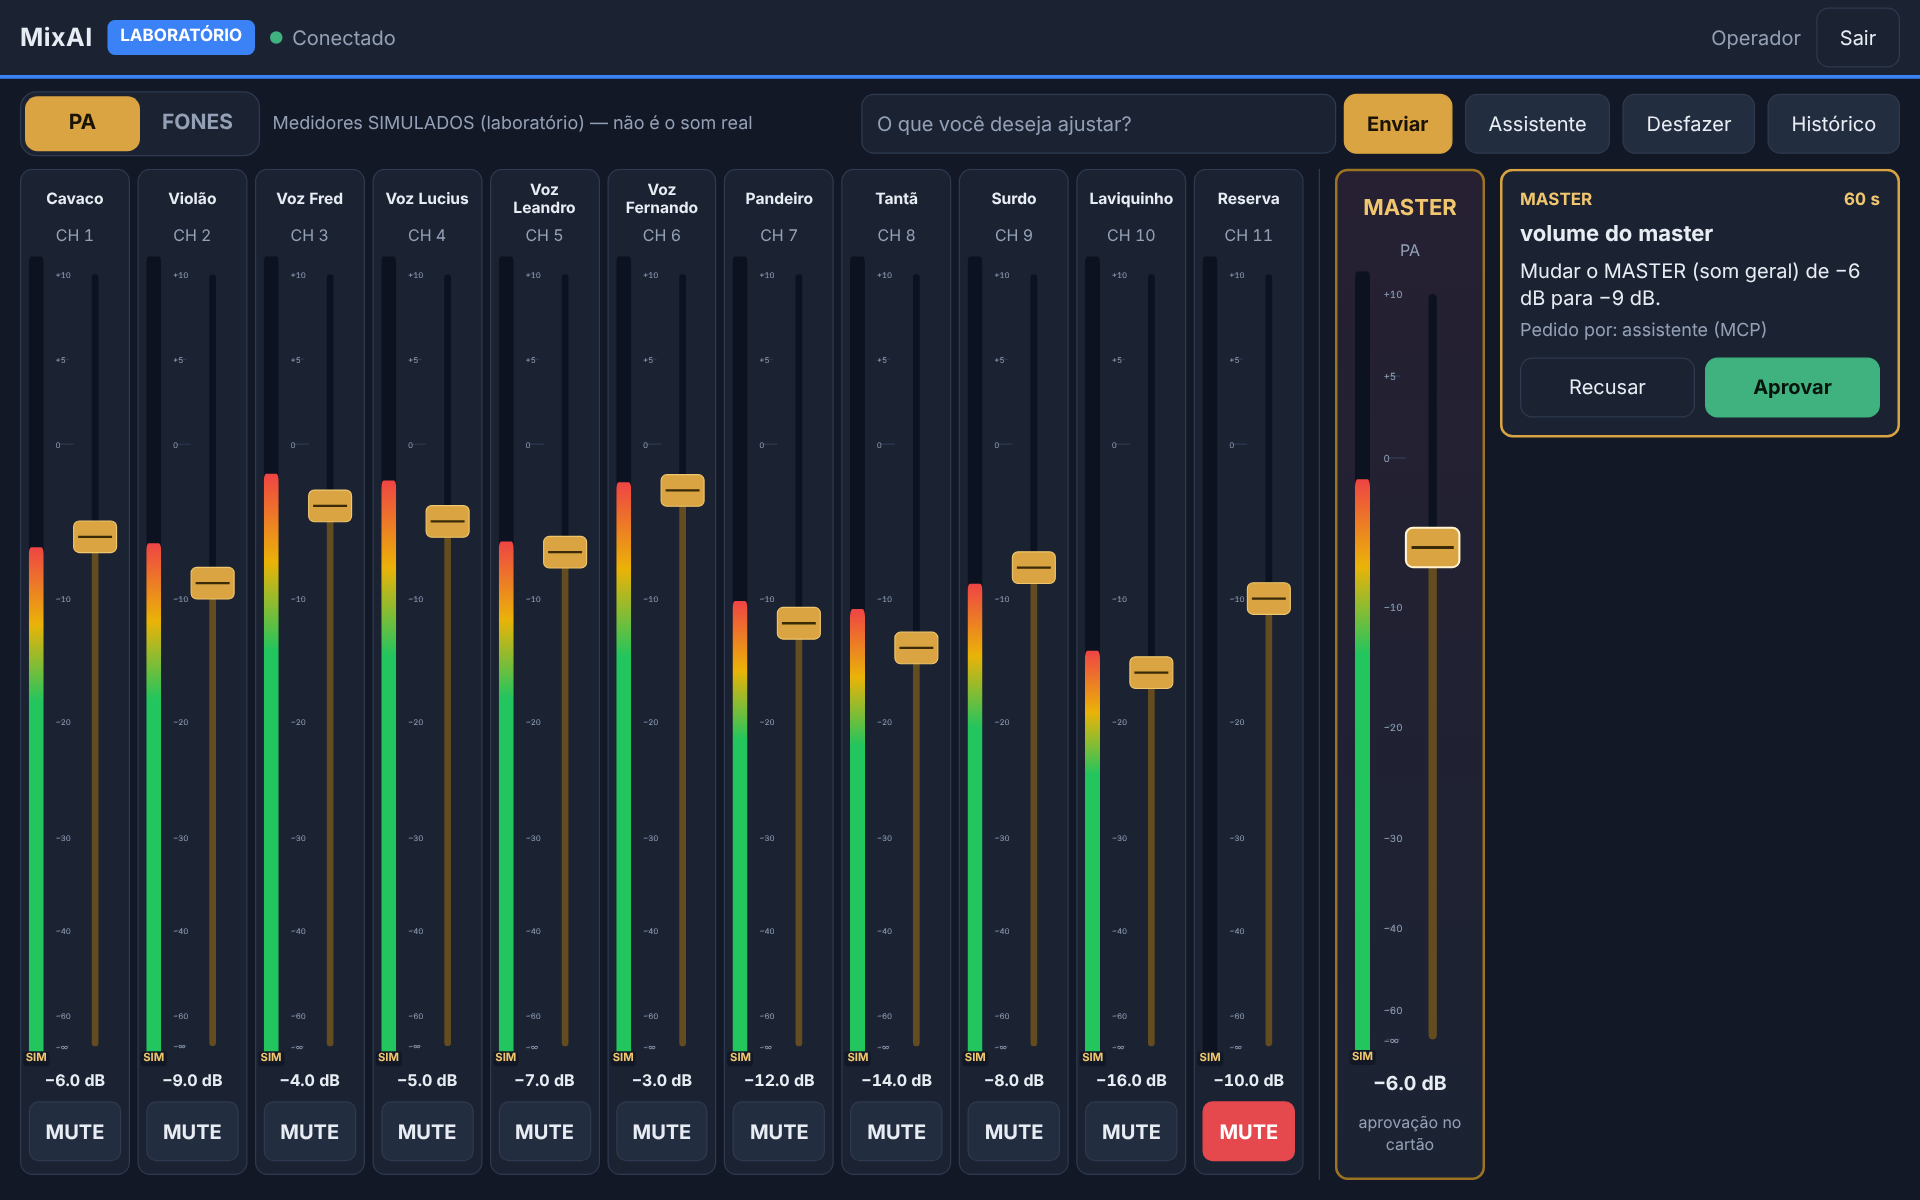
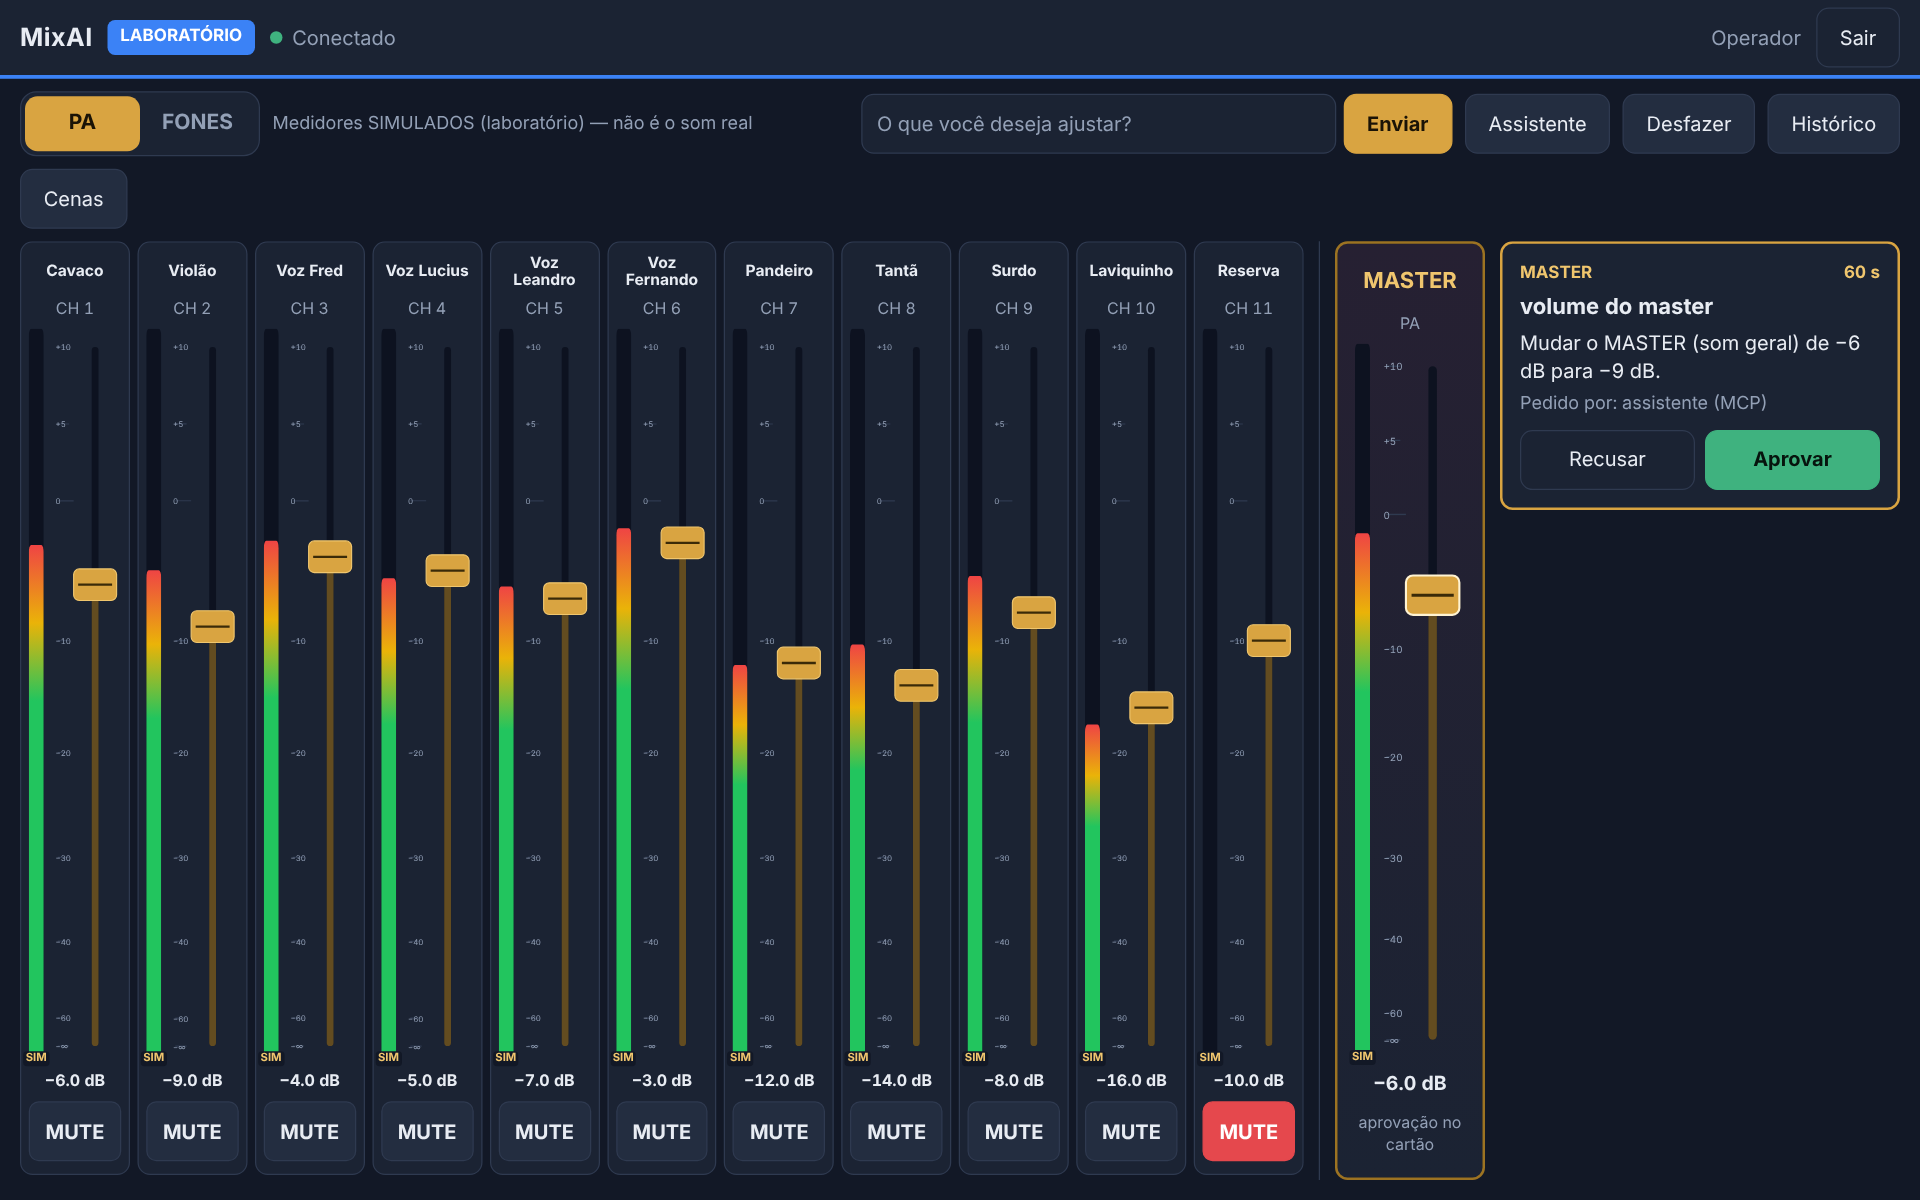
docs: E5 — cenas do MixAI (formato, fluxo seguro, permissões, testes, capturas)
- docs/lab/10-E5-CENAS.md: cena do MixAI × snapshot da Soundcraft, formato
  v2, importação, comparação, carregamento em 7 passos, desfazer, falhas,
  permissões, nunca na mesa real, interface, testes e riscos.
- Capturas e5-yoga-cenas-*.png (gerador npm run screenshots); capturas da
  E3/E4 regeneradas (botão Cenas na barra).
- README, ESTADO-ATUAL e plano (E5 implementada).

Claude-Session: https://claude.ai/code/session_01ALNfJPYNgshdvedMN7ticP

diff --git a/test/e2e/screenshots.test.ts b/test/e2e/screenshots.test.ts
@@ -103,3 +103,45 @@ it('capturas do assistente (Yoga e celular)', async () => {
     await l.server.close();
   }
 }, 90_000);
+
+it('capturas das cenas (E5, Yoga)', async () => {
+  const out = join(PROJECT_ROOT, 'docs', 'lab', 'img');
+  const l = await startLab({ channels: bandChannels() });
+  const browser = await launch();
+  try {
+    const op = await l.login(OPERATOR_PIN);
+    const set = (command: Record<string, unknown>) => l.command(op, command);
+    await set({ type: 'set_level', channel: 'surdo', db: -12 });
+    await set({ type: 'set_level', channel: 'cavaco', db: -12 });
+    await set({ type: 'set_level', channel: 'voz fernando', aux: 'fones', db: -17 });
+    await set({ type: 'set_mute', channels: ['pandeiro'], muted: true });
+    await set({ type: 'scene_save', name: 'Roda de sábado', description: 'Surdo e voz do Fernando mais à frente; pandeiro fora do PA.' });
+    await set({ type: 'scene_save', name: 'Ensaio acústico', description: 'Base para ensaio em casa.' });
+    await set({ type: 'set_level', channel: 'surdo', db: -15 });
+    await set({ type: 'set_level', channel: 'cavaco', db: -10 });
+    await set({ type: 'set_level', channel: 'voz fernando', aux: 'fones', db: -20 });
+    await set({ type: 'set_mute', channels: ['pandeiro'], muted: false });
+
+    const yoga = await enter(browser, l.base, OPERATOR_PIN, YOGA);
+    const page = yoga.page;
+    await page.getByRole('button', { name: 'Cenas' }).click();
+    await page.locator('.scene-item', { hasText: 'Roda de sábado' }).click();
+    await page.locator('.scene-view tbody tr').first().waitFor();
+    await page.waitForTimeout(300);
+    await page.screenshot({ path: join(out, 'e5-yoga-cenas-lista.png') });
+    await page.getByRole('button', { name: 'Comparar' }).click();
+    await page.getByTestId('scene-compare').waitFor();
+    await page.waitForTimeout(300);
+    await page.screenshot({ path: join(out, 'e5-yoga-cenas-comparacao.png') });
+    await page.getByRole('button', { name: 'Carregar…' }).click();
+    await page.waitForTimeout(300);
+    await page.screenshot({ path: join(out, 'e5-yoga-cenas-confirmar.png') });
+    await page.getByRole('button', { name: 'Pedir carregamento' }).click();
+    await page.getByTestId('scene-load-card').waitFor();
+    await page.waitForTimeout(300);
+    await page.screenshot({ path: join(out, 'e5-yoga-cenas-aprovacao.png') });
+  } finally {
+    await browser.close();
+    await l.server.close();
+  }
+}, 60_000);

diff --git a/docs/lab/10-E5-CENAS.md b/docs/lab/10-E5-CENAS.md
@@ -1,0 +1,216 @@
+# E5 — Cenas do MixAI no laboratório
+
+Branch `e5-lab-scenes`. Referência: `03-IMPLEMENTATION-PLAN.md`, seção E5. **Tudo só no LABORATÓRIO**: nenhuma cena é enviada à Ui16 real.
+
+> **Regra fundamental:** nenhuma cena altera a mesa sem confirmação humana.
+
+## O que é uma cena do MixAI
+
+| | Cena do MixAI | Snapshot da Soundcraft |
+| --- | --- | --- |
+| Onde fica | arquivo no computador: `data/scenes/<id>.json` (fora do Git) | na própria mesa Ui16 |
+| Quem cria | o operador, pela área **Cenas** | a interface da Soundcraft |
+| Carregar | só no LABORATÓRIO, com comparação e aprovação | `load_snapshot` (E2), sempre com aprovação |
+| Desfazer | sim, uma operação | não (o desfazer é zerado) |
+
+A tela de Cenas mostra a diferença no topo: "Arquivos do MixAI guardados neste computador. **Não são os snapshots da Soundcraft**".
+
+## Funcionalidades
+
+- Criar cena a partir do estado atual do laboratório, com nome e descrição do usuário.
+- Listar, duplicar (`"Nome (cópia)"`), renomear e trocar a descrição. Os nomes não se repetem (sem diferenciar maiúsculas).
+- Excluir com confirmação. O servidor confere o nome atual da cena, e o arquivo é **movido** para `data/scenes/excluidas/`, de onde dá para recuperar à mão.
+- Ver os parâmetros salvos, por destino.
+- Comparar com o estado atual e carregar no LAB, depois da aprovação.
+- Exportar (download `mixai-cena-<nome>.json`) e importar (seletor de arquivo, até 256 KB).
+
+`config/channels.yaml` e os nomes dos canais não são alterados.
+
+## Formato do arquivo (`schemaVersion: 2`)
+
+```json
+{
+  "schemaVersion": 2,
+  "kind": "mixai-scene",
+  "id": "cena-3f9a1c2b7d4e",
+  "name": "Roda de sábado",
+  "description": "Surdo e voz do Fernando mais à frente",
+  "createdAt": "2026-11-05T20:43:00.000Z",
+  "updatedAt": "2026-11-05T20:43:00.000Z",
+  "deviceProfile": { "model": "ui16", "inputs": 12, "aux": 6 },
+  "validationStatus": "UNVERIFIED",
+  "source": { "mode": "lab", "app": "MixAI" },
+  "params": {
+    "ch.9.main.level": { "value": -12, "status": "unknown" },
+    "ch.8.main.level": { "value": "-inf", "status": "unknown" },
+    "ch.7.main.mute": { "value": true, "status": "unknown" },
+    "ch.1.eq.b1.gain": { "value": 0, "status": "incompatible" }
+  }
+}
+```
+
+- **Identificadores estáveis:** as chaves são os mesmos `ParamKey` do resto do projeto (`ch.N.main.level`, `ch.N.aux.A.mute`, `master.level`, `ch.N.eq.bK.gain`…).
+- **−∞:** é gravado como `"-inf"`, porque JSON não tem Infinity. Volta como `-Infinity` sem perda (testado na ida e volta entre dois computadores).
+- **Validação com Zod:**
+  - o esquema é estrito: campo desconhecido é recusado;
+  - cada valor é conferido na faixa do registro de parâmetros;
+  - nome com até 60 caracteres e descrição com até 500;
+  - no máximo 2000 parâmetros.
+- **`validationStatus`:** `UNVERIFIED` (só laboratório) ou `VALIDATED_IN_REHEARSAL` (ouvida num ensaio; reservado para depois).
+- **Status por parâmetro** (preparação para a comparação com a Ui16 real, D9):
+
+| Status | Quando |
+| --- | --- |
+| `compatible` | parâmetro validado na mesa física (`hardware_verified`; nenhum ainda) |
+| `unknown` | existe na biblioteca da Soundcraft, ainda não validado na mesa física (volume e mute hoje) |
+| `incompatible` | só existe no laboratório ou não é enviado à mesa real (EQ, HPF, bypass hoje) |
+
+## Importação
+
+- **Recusada com mensagem:**
+  - JSON inválido;
+  - arquivo que não é cena do MixAI (inclusive um snapshot da Soundcraft);
+  - campo desconhecido;
+  - valor fora da faixa ou do tipo errado;
+  - identificador de parâmetro inválido;
+  - **versão de formato diferente de 2** (mais nova: "atualize o MixAI");
+  - **outro modelo de mesa** (`DEVICE_MISMATCH`, por exemplo uma cena da Ui24).
+- **Aceita com aviso:** mesmo modelo com outro número de entradas ou AUX. Os parâmetros que não existem aqui ficam guardados e nunca são aplicados.
+- **Sempre cria uma cena nova:** id novo, e um nome livre se já houver um igual (`"Show (importada)"`). **Nunca sobrescreve e nunca aplica nada.**
+
+## Comparação
+
+Mostra **só o que difere** do estado atual, com o total de alterações e os filtros **Todos / PA / FONES / MASTER / OUTROS**:
+
+| Canal | Destino | Atual | Cena | Diferença |
+| --- | --- | --- | --- | --- |
+| Surdo | PA | −15.0 dB | −12.0 dB | **+3 dB** |
+| Cavaco | PA | −10.0 dB | −12.0 dB | **−2 dB** |
+| Voz Fernando | FONES | −20.0 dB | −17.0 dB | **+3 dB** |
+| Pandeiro | PA | aberto | MUTE | vai MUTAR |
+| Voz Fred | EQ | 0 | −4 | não aplicável: EQ/HPF, guardado na cena |
+
+- **Volume:** diferença em dB.
+- **Mute:** "vai MUTAR" ou "vai ABRIR".
+- **Ainda não aplicável:**
+  - EQ, HPF e bypass (sem caminho de escrita novo);
+  - canais e AUX fora do `channels.yaml`;
+  - valor atual desconhecido.
+- **Teto de segurança:** um volume acima do teto (`safety.maxChannelLevelDB` etc.) aparece como "→ 0.0 dB (teto)", e é esse o valor aplicado.
+
+Comparar não altera nada e guarda uma **prévia** presa às revisões dos parâmetros da cena (vale 5 min, uma vez).
+
+## Carregamento seguro
+
+1. O operador escolhe a cena.
+2. **Comparar:** o servidor calcula as diferenças e guarda a prévia, com as revisões dos parâmetros.
+3. A tela mostra a prévia, e **Carregar…** abre o resumo ("N parâmetros mudam: PA x, FONES y, MASTER z").
+4. **Pedir carregamento:**
+   - o servidor confere a prévia **dentro da fila única**;
+   - se qualquer parâmetro mudou, responde `STATE_CHANGED` e a tela pede nova comparação.
+5. O servidor cria a **pendência de aprovação da E2**. É o mesmo mecanismo dos cartões de master e snapshot; não existe um segundo sistema. Ela fica vinculada:
+   - às **revisões de todos os parâmetros aplicáveis da cena**;
+   - ao **conteúdo da cena** (hash dos valores e do equipamento).
+6. O operador toca em **Aprovar** no cartão, dentro do painel de Cenas ou na coluna lateral da Mesa.
+7. Só então o LAB aplica, pela **fila única**, com as travas existentes.
+
+**Garantias:**
+- **A mesa mudou entre o pedido e a aprovação:** a pendência é **invalidada na hora**. O cartão some com "a pendência foi invalidada", e a mudança posterior **não é sobrescrita**. Isso também vale agora para os outros cartões (master, passo grande), porque a pendência confere as revisões a cada segundo.
+- **A cena foi excluída antes da aprovação:** nada é aplicado (`NOT_FOUND`).
+- **Ordem segura de aplicação:** primeiro o que diminui o som (mutar, abaixar), depois o que aumenta (subir, abrir). Evita um pico no meio da troca.
+- **Sem saltos sem aviso:** todo carregamento tem prévia e aprovação, qualquer que seja o tamanho da mudança.
+- **Uma prévia, um pedido.** A prévia vale 5 minutos e só para o operador que comparou.
+
+## Desfazer e falhas
+
+- **Desfazer:**
+  - o carregamento entra como **um item** no histórico (`scene_load`, com `by: operador · sessão …; aprovado por operador · sessão …`) e **um item** na pilha de desfazer;
+  - um toque em **Desfazer** volta todos os parâmetros;
+  - o desfazer respeita as revisões: o que alguém mudou depois da cena não é sobrescrito, pela política existente.
+- **Falhas:**
+  - uma falha no meio da aplicação gera `PARTIAL`, com "Operação PARCIAL", "RESULTADO INCERTO" e "NÃO enviado";
+  - **nunca** é apresentada como sucesso completo;
+  - só o que foi de fato enviado entra no desfazer.
+
+## Permissões (conferidas no backend)
+
+| Ação | Operador | Músico (qualquer modo, inclusive `pa_without_master`) | Assistente (MCP e tela) |
+| --- | --- | --- | --- |
+| Criar, renomear, duplicar, excluir, ver | sim | **não** | **não** |
+| Importar e exportar | sim | não | não |
+| Comparar e pedir carregamento | sim (só LAB) | não | não |
+| Aprovar o carregamento | sim | não | não |
+
+O botão **Cenas** só aparece na tela do operador. Comandos `scene_*` forjados por WebSocket ou HTTP são recusados (`FORBIDDEN`, testado).
+
+## Nunca na mesa real
+
+- O `ScenesService` só compara, salva do estado e carrega quando o servidor **e** o adaptador da mesa estão em modo `lab`.
+- O `MixController.loadScene` confere de novo e recusa qualquer outro modo (`MODE_MISMATCH`), mesmo chamado direto e mesmo com uma confirmação.
+- Fora do LAB, a tela mostra "Fora do laboratório: só ver, renomear, importar e exportar".
+- EQ e HPF continuam sem caminho de escrita física.
+
+## Interface
+
+**Cenas** é um botão na barra da Mesa. Abre um painel em tela cheia, que se fecha com **Fechar** e não ocupa os faders de forma permanente:
+- lista à esquerda, com **Salvar estado atual** e **Importar**;
+- detalhes à direita, com **Comparar**, **Carregar…**, **Duplicar**, **Renomear**, **Exportar** e **Excluir**;
+- filtros por destino;
+- diálogos de confirmação.
+
+Os botões têm pelo menos 48 px de altura (toque no Yoga). Em tela estreita, a lista fica acima dos detalhes, sem rolagem horizontal. "Carregar…" desabilitado sempre mostra o motivo.
+
+![Lista e parâmetros salvos](img/e5-yoga-cenas-lista.png)
+![Comparação com o estado atual](img/e5-yoga-cenas-comparacao.png)
+![Resumo antes de pedir](img/e5-yoga-cenas-confirmar.png)
+![Cartão de aprovação (mecanismo da E2)](img/e5-yoga-cenas-aprovacao.png)
+
+## Arquivos
+
+| Arquivo | O quê |
+| --- | --- |
+| `src/core/scene.ts` | formato v2, validação, status, classificação, comparação, alvos de carregamento |
+| `src/core/scene-store.ts` | `data/scenes/`: gravação atômica, nomes, duplicar, renomear, excluir, importar, exportar |
+| `src/server/scenes.ts` | serviço do servidor: comandos, prévia, pedido, aplicação aprovada |
+| `src/core/controller.ts` | `loadScene` (fila única, aprovação, desfazer, ordem segura, só LAB) |
+| `src/core/pending.ts` | pendência invalidada na hora quando um parâmetro vinculado muda |
+| `src/server/commands.ts`, `core.ts` | comandos `scene_*`, autorização só do operador, aprovação |
+| `web/src/app/scenes/*` | tela de Cenas |
+
+## Testes
+
+| Conjunto | Total | Novos na E5 |
+| --- | --- | --- |
+| Servidor e núcleo (`npm test`) | 332 | 21 de cenas (+ 2 da E1 adaptados ao formato v2) |
+| Interface, unitários (`npm run test:web`) | 46 | 3 |
+| Integração com navegador (`npm run test:e2e`) | 33 | 6 |
+
+Cobertura dos 16 itens pedidos:
+1. Criar e salvar.
+2. Persistir depois de reiniciar.
+3. Duplicar e renomear.
+4. Exportar e importar entre **dois computadores independentes**: dois servidores com pastas de dados diferentes, arquivo levado por uma pasta "pendrive". Testado no servidor e no navegador, com download e seletor de arquivo.
+5. JSON inválido.
+6. Versão incompatível.
+7. Equipamento incompatível.
+8. Diferenças.
+9. Importar sem aplicar.
+10. Carregar só depois da aprovação.
+11. Aprovação invalidada quando o estado muda, antes do pedido e entre o pedido e a aprovação.
+12. Músico impedido nos dois modos.
+13. Mesa REAL impedida (serviço e controlador, nenhuma escrita).
+14. Desfazer como uma operação.
+15. Proteções anteriores: tetos, falha parcial, aprovação só do operador, assistente recusado, e todos os testes anteriores verdes.
+16. Interface no tamanho do Yoga (125%) e em retrato, no Chromium, sem erros de JavaScript.
+
+Mutações conferidas: sem a aprovação obrigatória, 5 testes falham; sem a conferência da prévia, o teste de "estado mudou" falha.
+
+## Riscos e limites
+
+| Item | Situação |
+| --- | --- |
+| EQ/HPF na cena | guardados e comparados, **não aplicados** (sem caminho de escrita novo). A E7 decide |
+| Cena com canais fora do `channels.yaml` | guardados, mostrados como não aplicáveis |
+| Comparação LAB × Ui16 real | só o formato está preparado (status por parâmetro). A comparação é a E8 |
+| Arquivo editado à mão em `data/scenes` | validado ao ler; arquivo ilegível é listado como ignorado e não é apagado |
+| Exclusão | move para `data/scenes/excluidas/`; não há lixeira na tela |

diff --git a/ESTADO-ATUAL.md b/ESTADO-ATUAL.md
@@ -1,4 +1,4 @@
-# MixAI — estado atual (05/11/2026, v0.6 / E4)
+# MixAI — estado atual (05/11/2026, v0.7 / E5)
 
 Controle da mesa **Soundcraft Ui16** por IA, para uma banda de samba/pagode amadora que toca em roda.
 O músico pede em português ("mais Fred no fone", "abaixa o surdo") e o Claude ajusta a mesa,
@@ -91,8 +91,8 @@ src/
 config/
   config.yaml         modo, IP, travas
   channels.yaml       nomes da banda
-test/                 311 testes (Vitest) + 27 de integração com navegador (test/e2e)
-web/                  interface Angular (43 testes unitários)
+test/                 332 testes (Vitest) + 33 de integração com navegador (test/e2e)
+web/                  interface Angular (46 testes unitários)
 ```
 
 ---
@@ -138,7 +138,7 @@ a pilha de desfazer (até 50 ações).
 
 ## 5. Testes
 
-311 testes do servidor + 43 da interface + 27 de integração com navegador passando (Linux; o CI roda também em Windows). Inclui, além dos 40 originais:
+332 testes do servidor + 46 da interface + 33 de integração com navegador passando (Linux; o CI roda também em Windows). Inclui, além dos 40 originais:
 
 - nomes da banda (acentos, apelidos, "canal 9", "retorno do ...", limites da Ui16);
 - travas (teto, passo máximo, confirmação, rate limit, sem conexão);
@@ -150,6 +150,10 @@ a pilha de desfazer (até 50 ações).
   MCP sem servidor, reinício invalida sessões, um só controlador, rede do Yoga, segredos;
   correções da revisão: escrita nunca repetida após reinício (INDETERMINATE), desfazer crítico com
   aprovação, WebSocket revogado no logout/vencimento, trava de dono entre instalações e processos);
+- **E5 — cenas do MixAI (`docs/lab/10-E5-CENAS.md`):** salvar/duplicar/renomear/excluir,
+  importar/exportar JSON (formato v2, −∞ preservado, versão e equipamento conferidos), comparação
+  por PA/FONES/MASTER, carregamento só no LAB com pendência da E2 vinculada às revisões, um item
+  no desfazer, só operador;
 - **Ajustes do Yoga (`docs/lab/09-AJUSTES-YOGA.md`):** chat do operador sempre visível (aprovações,
   histórico, tela estreita), motivos de sessão encerrada, política do músico `fones_only` (padrão) /
   `pa_without_master` (PA em passos de até 3 dB, nunca master), `config/config.local.yaml` fora do

diff --git a/README.md b/README.md
@@ -19,7 +19,7 @@ da mesa; o MCP do Claude Desktop é só um cliente dele. Detalhes: `docs/lab/06-
 cd mixai
 npm install
 npm run build
-npm test        # 311 testes, todos devem passar
+npm test        # 332 testes, todos devem passar
 npm ci --prefix web && npm run build:web   # interface (E3)
 ```
 
@@ -94,6 +94,16 @@ Celulares: configure `server.lan` (no `config.local.yaml`) e abra `http://<ip-do
 Detalhes, capturas e testes: `docs/lab/07-E3-INTERFACE.md`.
 
 ![Mesa no Yoga](docs/lab/img/e3-yoga-mesa-pa.png)
+
+## Cenas do MixAI (E5)
+
+Na Mesa, o botão **Cenas** abre um painel para salvar o estado do LABORATÓRIO como cena (nome e
+descrição), duplicar, renomear, excluir, exportar/importar JSON e **comparar** com o estado atual.
+Carregar é sempre: comparar → pedir → **aprovar o cartão** (o mesmo das operações críticas); um
+toque em Desfazer volta a cena inteira. Cena do MixAI (arquivo em `data/scenes/`) **não é**
+snapshot da Soundcraft. Só o operador; só no laboratório. Detalhes: `docs/lab/10-E5-CENAS.md`.
+
+![Comparação de cena no Yoga](docs/lab/img/e5-yoga-cenas-comparacao.png)
 
 ## Assistente de texto (E4)
 

diff --git a/docs/lab/03-IMPLEMENTATION-PLAN.md b/docs/lab/03-IMPLEMENTATION-PLAN.md
@@ -172,6 +172,8 @@ Ordem sugerida: **F0** (sábado), **E0 → E1 → E2 → E3** (primeira entrega 
 
 ## E5 — Cenas do Lab
 
+> **Implementada** no branch `e5-lab-scenes`: detalhes, decisões e testes em `10-E5-CENAS.md`.
+
 - **Objetivo:** salvar e comparar configurações no formato do MixAI.
 - **Funcionalidades:** salvar, duplicar, renomear e carregar cena (LAB); exportar e importar JSON com validação zod e `schemaVersion`; diff cena × estado atual.
 - **Preparado para o futuro (D9):** a cena guarda `ParamId → valor` com o perfil do equipamento (`deviceProfile`) e o status de validação. Assim, quando autorizado, será possível listar itens compatíveis, incompatíveis e desconhecidos e aplicar **um item por vez** com autorização humana. A aplicação em si **não** faz parte desta etapa.
